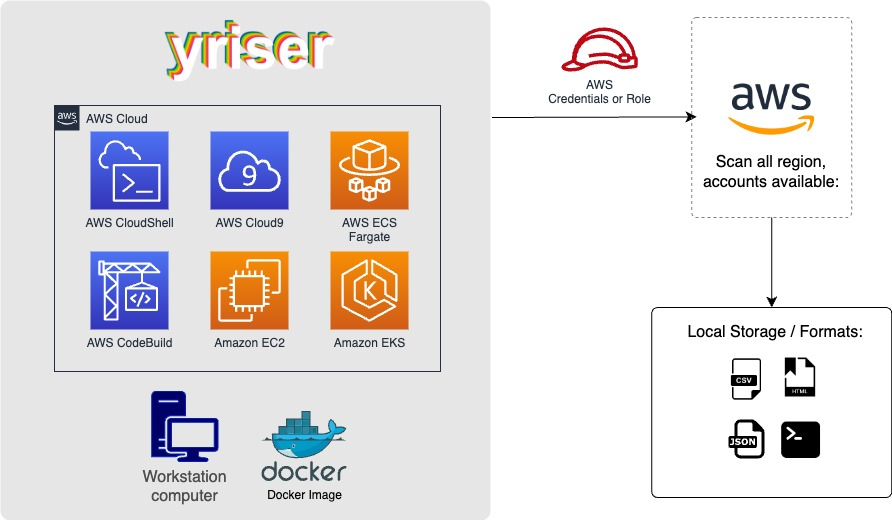
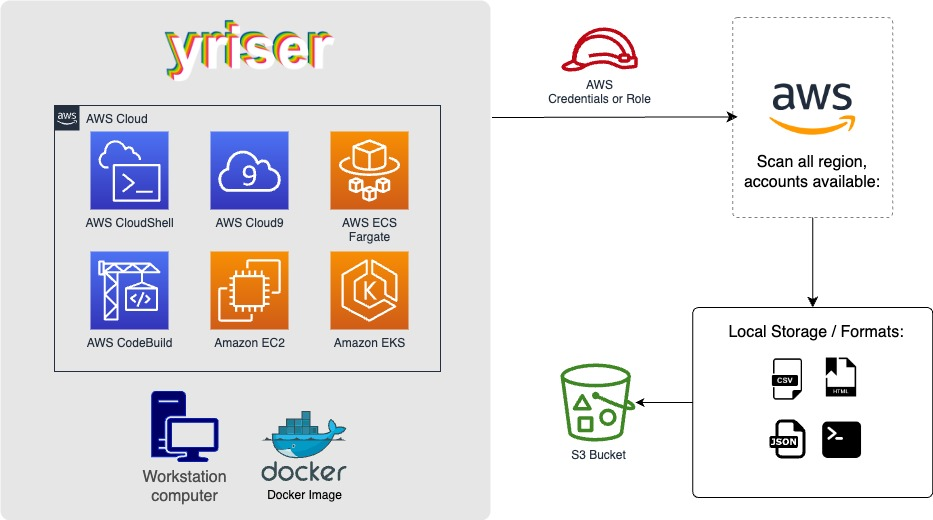
Yriser 0.0.2 - Lisa

diff --git a/README.md b/README.md
@@ -7,7 +7,6 @@
   <a href="https://github.com/yris-ops/yriser/issues"><img alt="Issues" src="https://img.shields.io/github/issues/yris-ops/yriser"></a>
   <a href="https://github.com/yris-ops/yriser/releases"><img alt="Version" src="https://img.shields.io/github/v/release/yris-ops/yriser?include_prereleases"></a>
   <a href="https://hub.docker.com/r/czantoine/yriser"><img alt="Docker Pulls" src="https://img.shields.io/docker/pulls/czantoine/yriser"></a>
-  <a href="https://hub.docker.com/r/czantoine/yriser"><img alt="Docker" src="https://img.shields.io/docker/cloud/build/czantoine/yriser"></a>
   <a href="https://hub.docker.com/r/czantoine/yriser"><img alt="Docker" src="https://img.shields.io/docker/image-size/czantoine/yriser"></a>
   <a href="https://github.com/yris-ops/yriser/releases"><img alt="Version" src="https://img.shields.io/github/release-date/yris-ops/yriser"></a>
 	<a href="https://github.com/yris-ops/yriser"><img alt="Stars" src="https://img.shields.io/github/stars/Yris-ops/yriser"></a>

diff --git a/docs/tutorials/reporting.md b/docs/tutorials/reporting.md
@@ -9,6 +9,7 @@ Prowler supports natively the following output formats:
 - CLI
 - CSV
 - HTML
+- JSON
 
 Hereunder is the structure for each of the supported report formats by Yriser:
 
@@ -29,3 +30,38 @@ The html report will be located in the output directory as the other files and i
 
 | TAG VALUE	| NUMBER |
 | ----------| ------ |
+
+### JSON
+
+
+``` json
+[
+  {
+    "ASSESSMENT_START_TIME": "2023-08-15T05:42:36Z",
+    "TAG_KEY": "without tag",
+    "TAG_VALUE": "none",
+    "RESOURCE_ID": "rule/yriser-rule",
+    "ACCOUNT_ID": "1234567890",
+    "REGION": "us-east-1"
+  },
+  {
+    "ASSESSMENT_START_TIME": "2023-08-15T05:42:36Z",
+    "TAG_KEY": "without tag",
+    "TAG_VALUE": "none",
+    "RESOURCE_ID": "rule/yriser-policy",
+    "ACCOUNT_ID": "1234567890",
+    "REGION": "us-east-1"
+  }
+]
+```
+
+Multiple Tag:
+
+``` json
+[
+  {
+    "TAG_VALUE": "Date_list:",
+    "NUMBER": null
+  }
+]
+```

diff --git a/docs/tutorials/command.md b/docs/tutorials/command.md
@@ -84,3 +84,11 @@ Yriser can use your custom AWS Profile with:
 ``` shell
 ./yriser.sh -p <aws_profile>
 ```
+
+### Send report to AWS S3 Bucket
+
+To save your report in an S3 bucket, use -s to be uploaded to S3:
+
+``` shell
+./yriser.sh -s bucket-yriser-demo
+```
